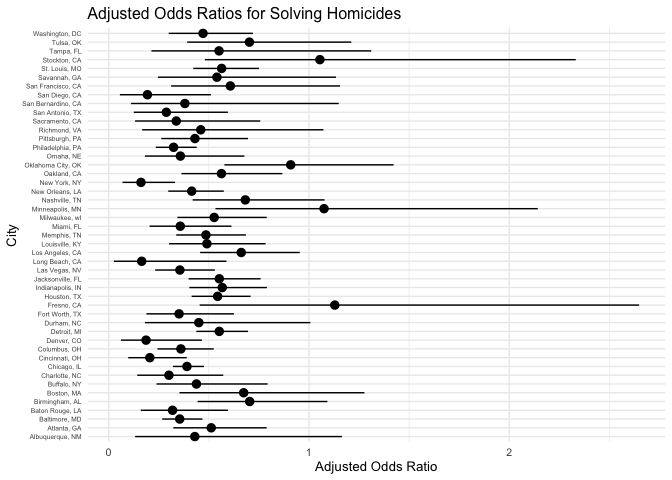
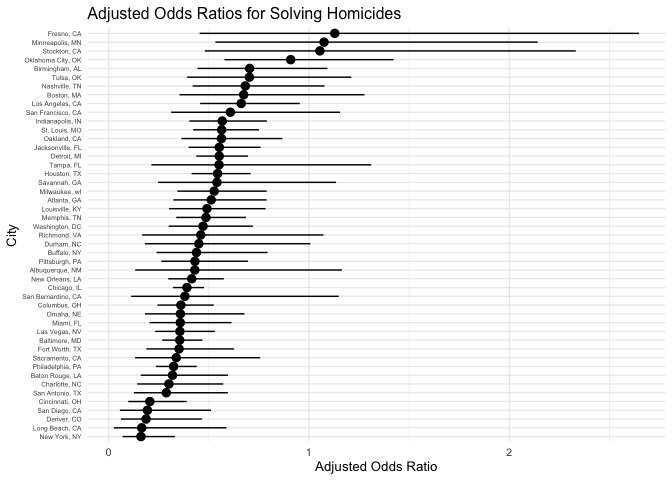
Problem 2

Changed region(s): [[0.1875, 0.0625, 0.9375, 0.9375], [0.0312, 0.0625, 0.125, 0.9375], [0.1875, 0.375, 0.2188, 0.4062]]

diff --git a/p8105_hw6_ww2744.md b/p8105_hw6_ww2744.md
@@ -111,10 +111,10 @@ city_glm_results = nested_city |>
     ## # ℹ 37 more rows
 
 ``` r
-ggplot(city_glm_results, aes(x = city_state, y = estimate, ymin = conf.low, ymax = conf.high)) +
+ggplot(city_glm_results, aes(x = fct_reorder(city_state, estimate), y = estimate, ymin = conf.low, ymax = conf.high)) +
   geom_pointrange() +
   coord_flip() +
-  labs(title = "Adjusted Odds Ratios for Solving Homicides ",
+  labs(title = "Adjusted Odds Ratios for Solving Homicides",
        x = "City",
        y = "Adjusted Odds Ratio") +
   theme_minimal(base_size = 10) + 
